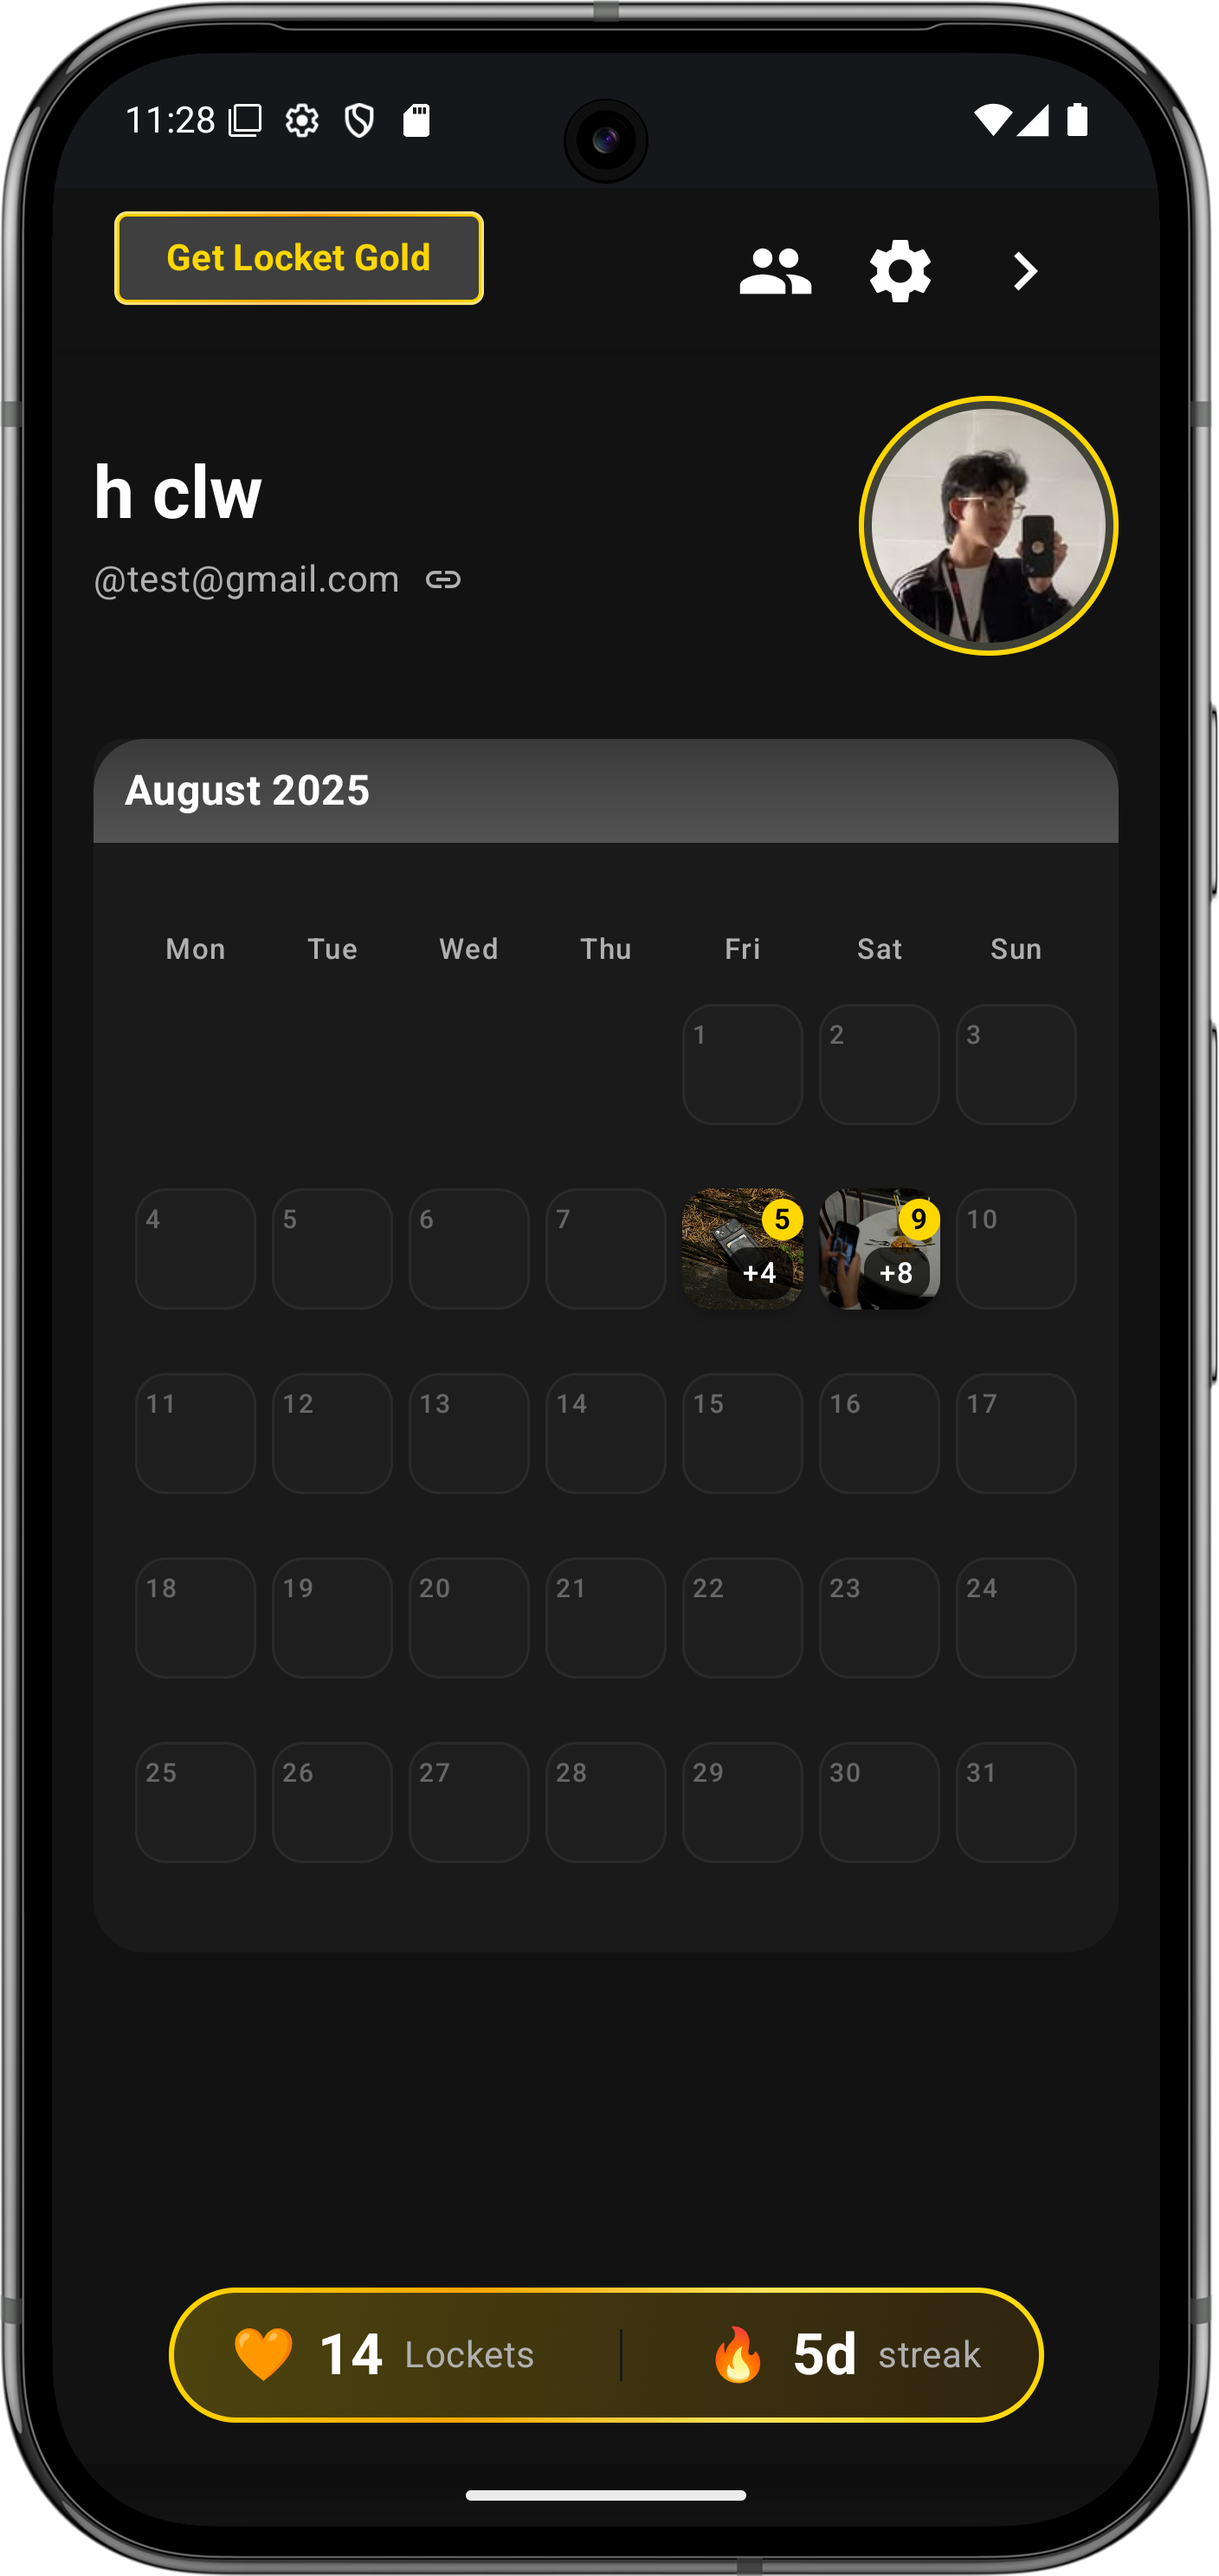
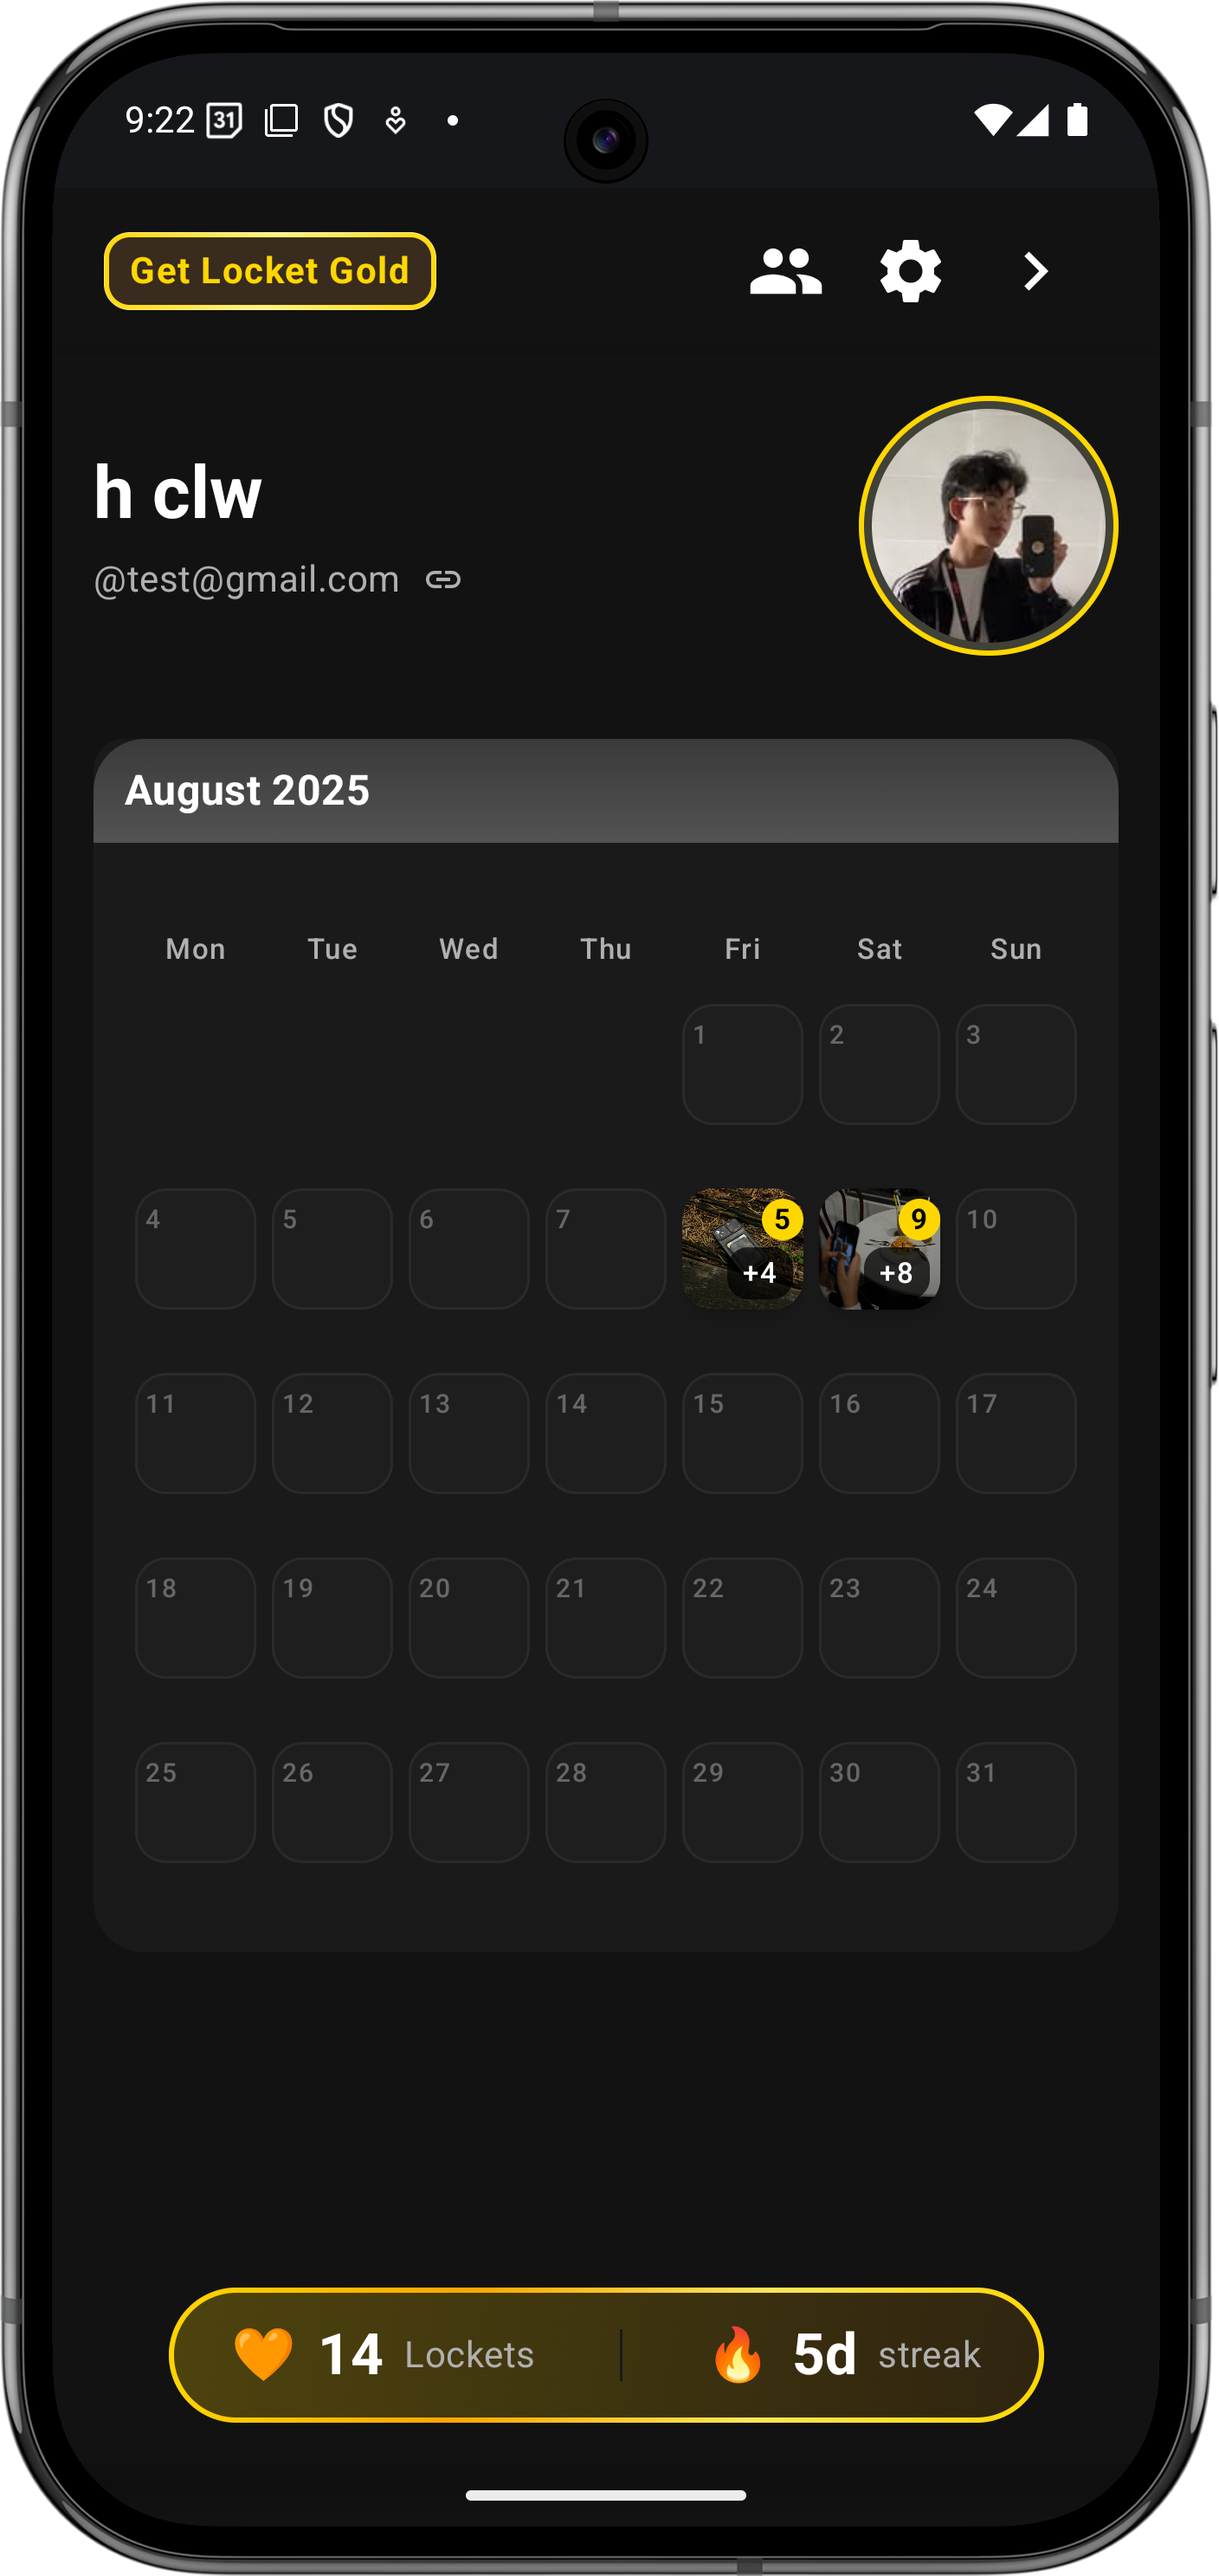
feat: enhance UI and add Instagram Story option
This commit introduces several UI enhancements and a new feature:

- **PostScreen:**
    - Added padding to the top of the `PostGrid` to prevent overlap with the `MainTopBar`.
    - Implemented `onGloballyPositioned` to dynamically get the height of the `MainTopBar`.
- **FriendListComponent:**
    - Renamed "Other" to "Others" in `listThirdPartyApp`.
    - Added an "Instagram Story" option alongside "Instagram DMs" by duplicating and modifying the existing Instagram entry.
- **UserProfileTopBar:**
    - Updated padding and border styles for the "Get Locket Gold" card.
    - Adjusted text styling for "Get Locket Gold".
    - Added a preview for `UserProfileTopBar`.
- **Color.kt:**
    - Modified `BackgroundPreview` color by adding an alpha value.
- **MainTopBar:**
    - Added padding to the top of the `CenterAlignedTopAppBar`.
    - Adjusted text styling for the username in the top bar.
- **PostGrid:**
    - Updated preview to use `SampleData.imageNotAvailable` for placeholder images.
- **Assets:**
    - Updated `my_profile_screen.png` and `post_screen.png`.

diff --git a/app/src/main/java/com/example/nocket/components/topbar/UserProfileTopBar.kt b/app/src/main/java/com/example/nocket/components/topbar/UserProfileTopBar.kt
@@ -36,8 +36,11 @@ import androidx.compose.ui.geometry.Offset
 import androidx.compose.ui.graphics.Brush
 import androidx.compose.ui.graphics.Color
 import androidx.compose.ui.text.font.FontWeight
+import androidx.compose.ui.tooling.preview.Preview
 import androidx.compose.ui.unit.dp
+import androidx.compose.ui.unit.sp
 import androidx.navigation.NavController
+import androidx.navigation.compose.rememberNavController
 import com.example.nocket.Screen
 
 
@@ -46,6 +49,9 @@ val buttons = listOf(
     Triple(Icons.Filled.Settings, Screen.Setting.route, "Settings"),
     Triple(Icons.AutoMirrored.Filled.KeyboardArrowRight, Screen.Post.route, "Home")
 )
+
+val roundCorner = RoundedCornerShape(10.dp)
+val borderThickness = 2.dp
 
 @OptIn(ExperimentalMaterial3Api::class)
 @Composable
@@ -64,21 +70,20 @@ fun UserProfileTopBar(
     )
 
     CenterAlignedTopAppBar(
-        modifier = Modifier.padding(horizontal = 20.dp),
+        modifier = Modifier.padding(horizontal = 16.dp),
         title = {},
         navigationIcon = {
             Card(
                 modifier = Modifier
-                    .padding(bottom = 10.dp)
                     .border(
-                        width = 1.dp,
+                        width = 0.dp,
                         color = MaterialTheme.colorScheme.primary.copy(alpha = 0.5f),
-                        shape = RoundedCornerShape(5.dp)
+                        shape = roundCorner
                     ),
                 colors = CardDefaults.cardColors(
-                    containerColor = MaterialTheme.colorScheme.primary.copy(alpha = 0.2f)
+                    containerColor = Color(0xFF74512D).copy(alpha = 0.4f)
                 ),
-                shape = RoundedCornerShape(5.dp)
+                shape = roundCorner
             ) {
                 Box(
                     modifier = Modifier
@@ -94,17 +99,17 @@ fun UserProfileTopBar(
 //                            shape = RoundedCornerShape(5.dp)
 //                        )
                         .border(
-                            width = 2.dp, // border thickness
+                            width = borderThickness, // border thickness
                             brush = Brush.linearGradient(
                                 colors = listOf(
                                     Color(0xFFFFD700),
-                                    Color(0xFFFFA500),
+                                    Color(0xFFFFF380),
                                     Color(0xFFFFD700)
                                 )
                             ),
-                            shape = RoundedCornerShape(5.dp)
+                            shape = roundCorner
                         )
-                        .padding(horizontal = 20.dp, vertical = 8.dp),
+                        .padding(horizontal = 10.dp, vertical = 5.dp),
                     contentAlignment = Alignment.Center
                 ) {
                     // Shimmer overlay
@@ -130,17 +135,13 @@ fun UserProfileTopBar(
                         )
                     }
 
-                    Row(
-                        horizontalArrangement = Arrangement.spacedBy(8.dp),
-                        verticalAlignment = Alignment.CenterVertically
-                    ) {
-                        Text(
-                            text = "Get Locket Gold",
-                            style = MaterialTheme.typography.labelLarge,
-                            color = Color(0xFFFFD700),
-                            fontWeight = FontWeight.Bold,
-                        )
-                    }
+                    Text(
+                        text = "Get Locket Gold",
+                        style = MaterialTheme.typography.labelLarge,
+                        letterSpacing = 0.5.sp,
+                        color = Color(0xFFFFD700),
+                        fontWeight = FontWeight.Bold,
+                    )
                 }
             }
 
@@ -154,7 +155,7 @@ fun UserProfileTopBar(
                 buttons.forEach { (icon, route, description) ->
                     Button(
                         onClick = {
-                            if(description == "FRIEND") {
+                            if (description == "FRIEND") {
                                 onFriendsClick()
                             } else {
                                 navController.navigate(route)
@@ -180,5 +181,14 @@ fun UserProfileTopBar(
         colors = TopAppBarDefaults.topAppBarColors(
             containerColor = Color.Transparent
         )
+    )
+}
+
+@Preview(showBackground = true, backgroundColor = 0xFF121212)
+@Composable
+fun UserProfileTopBarPreview() {
+    UserProfileTopBar(
+        navController = rememberNavController(),
+        onFriendsClick = {}
     )
 }

diff --git a/app/src/main/java/com/example/nocket/ui/screen/post/PostScreen.kt b/app/src/main/java/com/example/nocket/ui/screen/post/PostScreen.kt
@@ -14,11 +14,13 @@ import androidx.compose.runtime.Composable
 import androidx.compose.runtime.LaunchedEffect
 import androidx.compose.runtime.collectAsState
 import androidx.compose.runtime.getValue
+import androidx.compose.runtime.mutableIntStateOf
 import androidx.compose.runtime.mutableStateOf
 import androidx.compose.runtime.remember
 import androidx.compose.runtime.setValue
 import androidx.compose.ui.Alignment
 import androidx.compose.ui.Modifier
+import androidx.compose.ui.layout.onGloballyPositioned
 import androidx.compose.ui.text.style.TextAlign
 import androidx.compose.ui.unit.dp
 import androidx.hilt.navigation.compose.hiltViewModel
@@ -106,6 +108,8 @@ fun PostScreen(
                     else -> userPosts to userPostsLoading // Show friend's posts from userPosts StateFlow
                 }
 
+                var topbarHeight by remember { mutableIntStateOf(0) }
+
                 when {
                     isCurrentlyLoading -> {
                         CircularProgressIndicator(modifier = Modifier.align(Alignment.Center))
@@ -140,10 +144,12 @@ fun PostScreen(
                     else -> {
                         PostGrid(
                             posts = displayPosts,
-                            onPostClick = { post -> selectedPost = post }
+                            onPostClick = { post -> selectedPost = post },
+                            modifier = Modifier.padding(top = (50 + 80).dp)
                         )
                     }
                 }
+
 
                 MainTopBar(
                     navController = navController,
@@ -182,7 +188,10 @@ fun PostScreen(
                             }
                         }
                     },
-                    modifier = Modifier.align(Alignment.TopCenter)
+                    modifier = Modifier.align(Alignment.TopCenter).onGloballyPositioned { coordinates ->
+                        // Get the width of the title in pixels
+                        topbarHeight = coordinates.size.height
+                    }
                 )
 
                 MainBottomBar(

diff --git a/app/src/main/java/com/example/nocket/components/topbar/MainTopBar.kt b/app/src/main/java/com/example/nocket/components/topbar/MainTopBar.kt
@@ -173,19 +173,22 @@ fun MainTopBar(
     }
 
     CenterAlignedTopAppBar(
-        modifier = modifier.padding(horizontal = 20.dp),
+        modifier = modifier
+            .padding(horizontal = 20.dp)
+            .padding(top = 5.dp),
         title = {
             Box(
                 modifier = Modifier
                     .height(avatarWidth)
                     .wrapContentWidth()
-                    .widthIn(max = 400.dp)
+//                    .widthIn(max = 400.dp)
                     .background(
                         color = BackgroundPreview,
                         shape = RoundedCornerShape(50)
                     )
                     .clip(RoundedCornerShape(50))
                     .padding(horizontal = 12.dp, vertical = 6.dp)
+//                    .padding(start = 4.dp, end = 4.dp)
                     .clickable { showFriendDropdown = true },
                 contentAlignment = Alignment.Center
             ) {
@@ -202,6 +205,7 @@ fun MainTopBar(
                         text = trimUsername(selectedFriend?.username ?: user?.username ?: title),
                         color = Color.White,
                         fontWeight = FontWeight.Medium,
+                        letterSpacing = 0.5.sp,
                         style = MaterialTheme.typography.titleMedium
                     )
 

diff --git a/app/src/main/java/com/example/nocket/components/grid/PostGrid.kt b/app/src/main/java/com/example/nocket/components/grid/PostGrid.kt
@@ -1,5 +1,7 @@
 package com.example.nocket.components.grid
 
+import android.os.Build
+import androidx.annotation.RequiresApi
 import androidx.compose.foundation.background
 import androidx.compose.foundation.clickable
 import androidx.compose.foundation.layout.Arrangement
@@ -38,6 +40,7 @@ import androidx.compose.ui.text.style.TextAlign
 import androidx.compose.ui.tooling.preview.Preview
 import androidx.compose.ui.unit.dp
 import coil3.compose.AsyncImage
+import com.example.nocket.data.SampleData
 import com.example.nocket.models.Post
 import com.example.nocket.models.PostType
 import com.example.nocket.models.User
@@ -221,7 +224,8 @@ fun CameraButton(
     }
 }
 
-@Preview(showBackground = true)
+@RequiresApi(Build.VERSION_CODES.O)
+@Preview(showBackground = true, showSystemUi = true, backgroundColor = 0xFF121212 )
 @Composable
 fun PostGridPreview() {
     // Create sample posts for preview
@@ -232,7 +236,7 @@ fun PostGridPreview() {
             user = sampleUser,
             postType = PostType.IMAGE,
             caption = "Sample post $index",
-            thumbnailUrl = "https://picsum.photos/400/300?random=$index"
+            thumbnailUrl = SampleData.imageNotAvailable
         )
     }
     

diff --git a/app/src/main/java/com/example/nocket/components/list/FriendListComponent.kt b/app/src/main/java/com/example/nocket/components/list/FriendListComponent.kt
@@ -244,7 +244,7 @@ val listThirdPartyApp = listOf(
         onClick = {}
     ),
     ThirdPartyApp(
-        name = "Other",
+        name = "Others",
         imageUrl = "https://img.icons8.com/windows/50/link.png",
         icon = R.drawable.ic_connection,
         onClick = {}
@@ -492,7 +492,15 @@ fun ShareYourLinkComponent() {
             )
         }
 
-        listThirdPartyApp.forEach { item ->
+        val index = listThirdPartyApp.indexOfFirst { it.name == "Instagram" }
+        val instagram = listThirdPartyApp[index]
+
+        val uiList = listThirdPartyApp.toMutableList().apply {
+            add(index + 1, instagram.copy(name = "Instagram Story"))
+            this[index] = instagram.copy(name = "Instagram DMs")
+        }
+
+        uiList.forEach { item ->
             Row(
                 horizontalArrangement = Arrangement.spacedBy(10.dp),
                 verticalAlignment = Alignment.CenterVertically,

diff --git a/app/src/main/java/com/example/nocket/ui/theme/Color.kt b/app/src/main/java/com/example/nocket/ui/theme/Color.kt
@@ -21,4 +21,4 @@ val GrayOnSurfaceVariant = Color(0xFFB0B0B0) // Mid-gray text on variant
 val GrayError = Color(0xFFCF6679)          // Keep same red-pink error
 val GrayOnError = Color(0xFFFFFFFF)        // White text on error
 
-val BackgroundPreview = Color(0xFF424242)  // Darker gray for previews
+val BackgroundPreview = Color(0xFF424242).copy(alpha = 0.5f)  // Darker gray for previews
